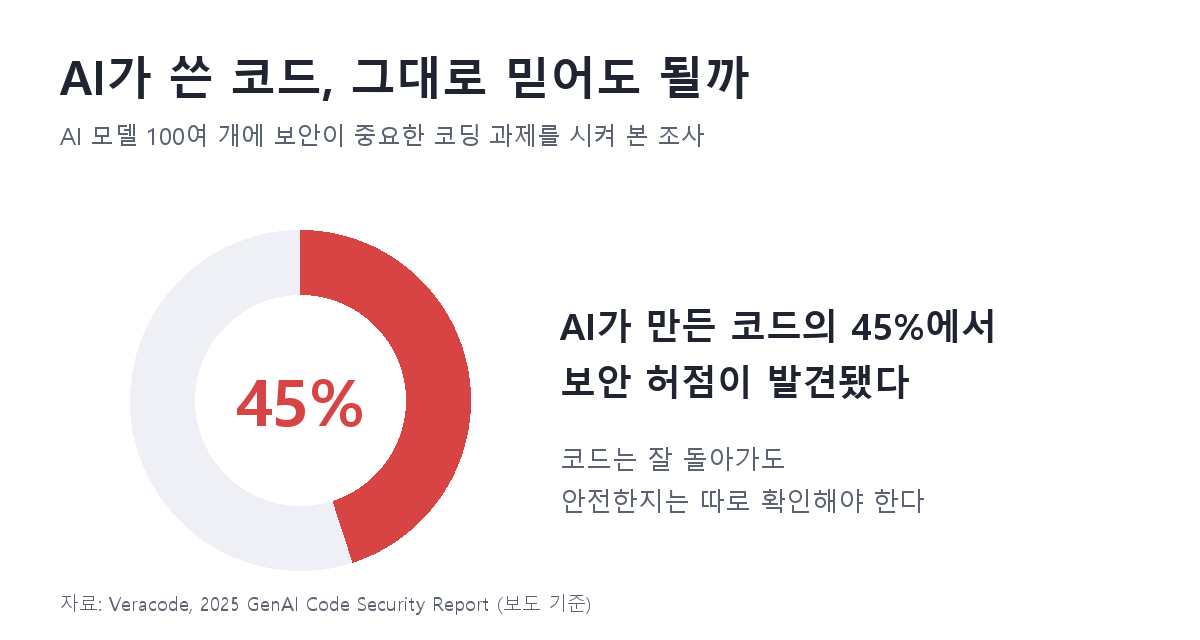
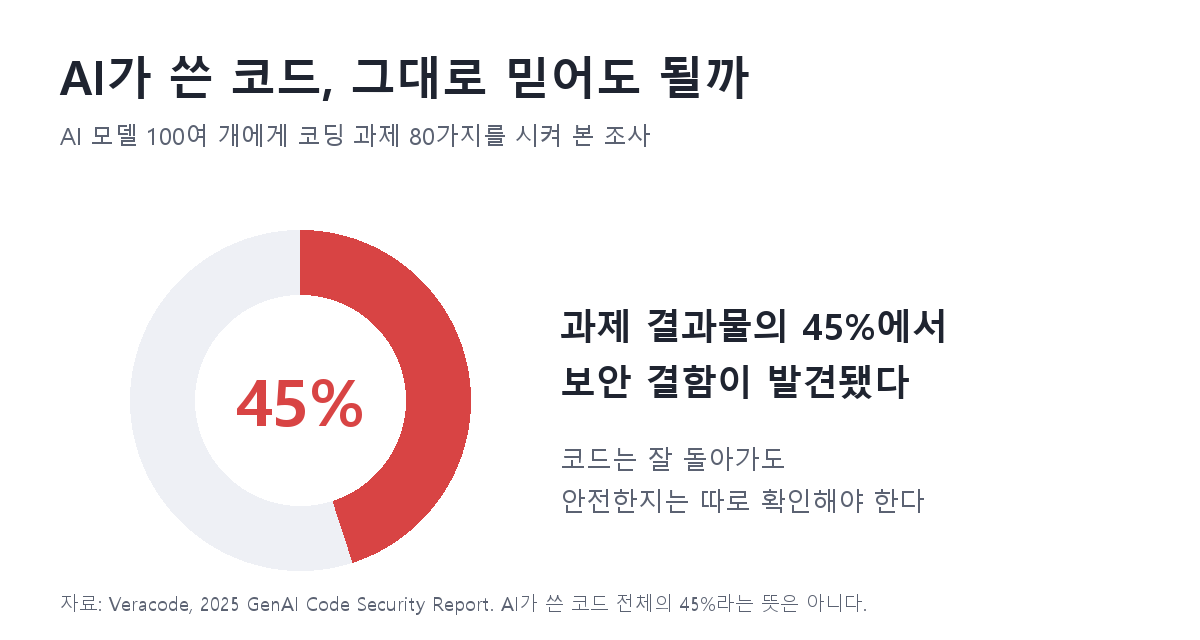
바이브 코딩 글: 외부 검토 반영, "어떻게보다 무엇을" 단락 추가
- 외부 검토 반영: 바이브 코딩의 처음 뜻과 넓어진 뜻 구분, Veracode 45%를 "과제 결과물의 45%"로 좁힘,
  경험 범위를 실제 해 본 작업으로 한정, "1년도 안 돼"를 "같은 해인 2025년 11월"로 수정
- 06·08 이미지 문구를 본문에 맞게 다시 만듦
- "참고한 자료" 항목은 넣었다가 사용자 요청으로 삭제, 출처는 발행 메모에만 둠
- 사용자 의견을 다듬어 "'어떻게'보다 '무엇을'이 중요해졌다" 단락과 09 비교 도식 추가
- AGENTS.md: 검토에서 배운 글쓰기 기준과 본문에 출처 목록을 넣지 않는 규칙 기록

diff --git a/문서/네이버-코딩가이드/20261115_바이브-코딩/index.html b/문서/네이버-코딩가이드/20261115_바이브-코딩/index.html
@@ -17,15 +17,26 @@
           06-보안-45퍼센트.png        AI 제작 차트
           07-잘-쓰는-법.png           AI 제작 체크리스트
           08-난이도별-바이브코딩.png   AI 제작 도식 (간단·중간·복잡별 AI 몫과 사람 몫)
+          09-어떻게보다-무엇을.png     AI 제작 비교 도식 (예전에 중요했던 것 → 이제 중요한 것)
 
 [발행 전에 확인할 부분]
 - 2026.11.15 검색 기준.
 - "바이브 코딩"이라는 말: 안드레이 카파시가 2025년 2월 2일 X(옛 트위터)에 처음 쓴 표현. 여러 보도로 확인(검색 요약).
 - 콜린스 사전 2025년 올해의 단어: 2025년 11월 6일 발표 보도 여러 건으로 확인(검색 요약).
-- 보안 45%: Veracode 2025 GenAI Code Security Report(AI 모델 100여 개, 보안 관련 코딩 과제 80개)를 인용한 CSA 연구 노트 요약으로 본 것.
+- 보안 45%: Veracode 2025 GenAI Code Security Report(AI 모델 100여 개, 코딩 과제 80개). "AI가 만든 코드의 45%"는
+  코드 전체의 45%로 오해될 수 있어, 외부 검토 의견에 따라 "과제 결과물의 45%에서 알려진 유형의 보안 결함"으로 좁혀 고쳤다(본문·06 이미지).
   보고서 원문은 열어 보지 않았다.
+- 2026.11.15 외부 검토 반영: 바이브 코딩의 처음 뜻(코드를 거의 보지 않고 맡김)과 요즘의 넓은 뜻을 구분해 설명,
+  "간단한 일은 충분했다"를 "제가 맡겨 본 단순한 작업에서는 충분했다"로 범위를 좁힘, "1년도 안 돼"를 "같은 해인 2025년 11월"로 바꿈,
+  글 끝에 참고한 자료 링크를 넣었다가 사용자 요청(논문이 아니다)으로 삭제했다. 출처는 이 발행 메모에만 둔다:
+  카파시 X 글 https://x.com/karpathy/status/1886192184808149383
+  콜린스 https://blog.collinsdictionary.com/language-lovers/collins-word-of-the-year-2025-ai-meets-authenticity-as-society-shifts/
+  베라코드 https://www.veracode.com/wp-content/uploads/2025_GenAI_Code_Security_Report_Final.pdf
+  Gizmodo https://gizmodo.com/even-the-inventor-of-vibe-coding-says-vibe-coding-cant-cut-it-2000672821
 - "직접 써 봤다" 부분은 이 저장소에서 실제로 한 작업(엑셀 합치기 코드 작성·실행 확인, 표·차트 이미지 제작,
   AI가 네이버 블로그에 하위 분류 기능이 있다고 잘못 답한 일, AI가 코드로 그린 만화 그림을 ChatGPT 그림으로 바꾼 일)을 바탕으로 썼다.
+- "'어떻게'보다 '무엇을'이 중요해졌다" 단락은 사용자 의견("어떻게 코딩하냐보다 무엇을 코딩하냐가 중요한 시대",
+  "누구나 코딩이 가능하지만 누구나 좋은 코딩이 가능한 것은 아니다")을 다듬어 추가했다. 카메라 비유와 공부 방향은 AI가 덧붙였다.
 - "모든 코딩이 바이브 코딩으로 바뀔까" 단락은 사용자 의견(간단한 것은 바이브 코딩만으로 되지만 복잡해지면 아직 어렵다)을 바탕으로 추가했다.
   카파시의 "throwaway weekend projects" 표현(2025.2.2 원래 글)과 "정말 신경 쓰는 코드에는 부족하다"는 이후 발언은
   여러 매체의 인용(검색 요약)으로 확인했다. 원문 X 글은 직접 열어 보지 않았다.
@@ -50,7 +61,9 @@
 
 <p>그가 말한 바이브 코딩은 코드를 한 줄씩 직접 쓰는 대신, AI에게 원하는 것을 말하고 결과를 보면서 '느낌(vibe)대로' 프로그램을 만들어 가는 방식이었습니다. 코드가 있다는 것조차 잊을 정도로 AI에게 맡긴다는 뜻이었다고 합니다.</p>
 
-<p>이 말은 1년도 안 돼 널리 퍼졌습니다. 영국의 콜린스 사전은 2025년 11월에 '바이브 코딩'을 그해의 단어로 뽑았습니다. 처음 등장한 뒤로 쓰임이 크게 늘었다는 것이 이유였다고 합니다.</p>
+<p>요즘은 뜻이 넓어져서, AI에게 말로 코드를 짜게 하는 방식 전반을 바이브 코딩이라고 부르는 경우가 많습니다. 다만 처음 뜻은 AI가 쓴 코드를 거의 들여다보지 않고 맡기는 쪽에 가까웠습니다. AI의 도움을 받되 코드를 직접 검토하고 고치는 개발과는 조금 다른 것입니다. 이 글에서는 넓은 뜻으로 쓰겠습니다.</p>
+
+<p>이 말은 빠르게 퍼졌습니다. 영국의 콜린스 사전은 같은 해인 2025년 11월에 '바이브 코딩'을 그해의 단어로 뽑았습니다. 처음 등장한 뒤로 쓰임이 크게 늘었다는 것이 이유였다고 합니다.</p>
 
 <p>&nbsp;</p>
 <hr style="border:none;border-top:1px solid #cfcfcf;margin:8px 0;">
@@ -105,9 +118,9 @@
 <p>&nbsp;</p>
 <h3 style="font-size:18px;margin:28px 0 8px;">보안은 따로 확인해야 한다</h3>
 
-<p>특히 보안 문제가 자주 지적됩니다. 보안 회사 베라코드(Veracode)가 2025년에 AI 모델 100여 개에게 보안이 중요한 코딩 과제를 시켜 본 조사에서, AI가 만든 코드의 45%에서 보안 허점이 나왔다고 합니다.</p>
+<p>특히 보안 문제가 자주 지적됩니다. 보안 회사 베라코드(Veracode)가 2025년에 낸 보고서에서는 AI 모델 100여 개에게 80가지 코딩 과제를 시켜 봤는데, 과제 결과물의 45%에서 이미 알려진 유형의 보안 결함이 발견됐다고 합니다. AI가 쓴 코드 전체의 45%가 위험하다는 뜻은 아니지만, 가볍게 넘길 비율은 아닙니다.</p>
 
-<p style="color:#e60000;font-weight:bold;">[[ 이미지: AI가 만든 코드의 보안 허점 45% (06-보안-45퍼센트.png) ]]</p>
+<p style="color:#e60000;font-weight:bold;">[[ 이미지: 과제 결과물의 45%에서 보안 결함 (06-보안-45퍼센트.png) ]]</p>
 
 <p>코드가 잘 돌아간다고 해서 안전한 것은 아니라는 뜻입니다. 엑셀 정리처럼 내 컴퓨터 안에서 끝나는 일은 부담이 적지만, 로그인이나 결제, 개인정보를 다루는 프로그램이라면 전문가의 확인이 꼭 필요해 보입니다.</p>
 
@@ -130,7 +143,7 @@
 
 <p>써 보면서 가장 궁금했던 것이 이 부분입니다. 앞으로는 코딩을 전부 말로 하게 될까요?</p>
 
-<p>제 결론은 "아직은 아니다"입니다. 엑셀 파일을 합치거나 그래프를 그리는 것처럼 간단한 일은 바이브 코딩만으로 충분했습니다. 원하는 것을 말하고, 결과를 확인하고, 한두 번 고쳐 달라고 하면 끝났습니다.</p>
+<p>제 결론은 "아직은 아니다"입니다. 제가 맡겨 본 엑셀 파일 합치기나 그래프 그리기 같은 단순한 작업에서는 바이브 코딩만으로 충분했습니다. 원하는 것을 말하고, 결과가 맞는지 확인하고, 한두 번 고쳐 달라고 하면 끝났습니다.</p>
 
 <p>그런데 일이 조금만 복잡해져도 사정이 달라졌습니다. 기능이 여러 개 얽히면, 하나를 고쳐 달라고 했을 때 다른 곳이 망가지는 일이 생깁니다. 어디가 문제인지 AI에게 다시 설명하다 보면, 결국 코드를 직접 들여다봐야 할 때가 많았습니다.</p>
 
@@ -151,14 +164,31 @@
 
 <p>&nbsp;</p>
 <hr style="border:none;border-top:1px solid #cfcfcf;margin:8px 0;">
+<h2 style="font-size:22px;margin:40px 0 12px;">'어떻게'보다 '무엇을'이 중요해졌다</h2>
+
+<p>AI 코딩 도구를 써 보면서 가장 크게 든 생각은 이것이었습니다. <b>이제는 어떻게 코딩하느냐보다 무엇을 코딩하느냐가 더 중요한 시대가 된 것 같다</b>는 것입니다.</p>
+
+<p>예전에는 코딩을 배운다고 하면 문법을 외우고, 언어마다 쓰는 법을 익히고, 오류가 나면 한 줄씩 찾아 고치는 일이 대부분이었습니다. 말하자면 '어떻게'를 배우는 시간이었습니다. 그런데 이 부분을 AI가 상당히 대신해 주면서, 사람에게 남는 일이 달라졌습니다.</p>
+
+<p style="color:#e60000;font-weight:bold;">[[ 이미지: 코딩에서 중요한 것이 바뀌었다 (09-어떻게보다-무엇을.png) ]]</p>
+
+<p>엑셀 파일 합치기만 해도 그렇습니다. 코드는 AI가 금방 써 주지만, 어떤 파일을 합칠지, 합친 뒤 어느 파일에서 온 데이터인지 표시할지, 결과를 어떤 모양으로 저장할지는 원하는 사람이 정해야 쓸모 있는 결과가 나옵니다. 무엇이 필요한지 분명하지 않으면, 코드는 잘 돌아가도 정작 쓸 데가 없는 결과가 나옵니다.</p>
+
+<p>그래서 <b>누구나 코딩을 할 수 있게 됐지만, 누구나 좋은 코딩을 할 수 있는 것은 아니라</b>는 생각도 들었습니다. 좋은 카메라가 있다고 누구나 좋은 사진을 찍는 것이 아닌 것과 비슷합니다. 같은 AI 도구를 써도 무엇을 만들지 정확히 아는 사람, 원하는 것을 잘 설명하는 사람, 결과가 맞는지 알아보는 사람이 훨씬 좋은 결과를 얻습니다.</p>
+
+<p>그렇다고 코딩 공부가 필요 없어진 것은 아니라고 생각합니다. 오히려 공부의 방향이 바뀐 것에 가깝습니다. 문법을 하나하나 외우는 것보다, 큰 문제를 작은 단계로 나누는 법, 프로그램이 어떻게 돌아가는지에 대한 기본 개념, 그리고 AI가 내놓은 결과를 의심하고 확인하는 습관이 더 중요해졌습니다.</p>
+
+<p>&nbsp;</p>
+<hr style="border:none;border-top:1px solid #cfcfcf;margin:8px 0;">
 <h2 style="font-size:22px;margin:40px 0 12px;">정리</h2>
 
 <ul style="padding-left:20px;">
   <li>바이브 코딩은 AI에게 말로 설명해서 코드를 짜게 하는 방식입니다.</li>
-  <li>2025년 2월에 처음 나온 말이고, 같은 해 콜린스 사전의 올해의 단어로 뽑혔습니다.</li>
-  <li>코드를 몰라도 원하는 것을 만들 수 있지만, AI가 틀릴 수 있고 보안 허점도 생길 수 있습니다.</li>
-  <li>간단한 일은 바이브 코딩만으로 충분하지만, 복잡한 프로그램은 아직 사람이 설계하고 확인해야 합니다.</li>
+  <li>2025년 2월에 처음 나온 말이고, 같은 해 콜린스 사전의 올해의 단어로 뽑혔습니다. 처음에는 코드를 거의 보지 않고 AI에게 맡기는 방식을 뜻했지만, 요즘은 더 넓게 쓰입니다.</li>
+  <li>코드를 몰라도 원하는 것을 만들 수 있지만, AI가 틀릴 수 있고 보안 결함도 생길 수 있습니다.</li>
+  <li>제가 해 본 단순한 작업에서는 바이브 코딩으로 충분했지만, 복잡한 프로그램은 아직 사람이 설계하고 확인해야 합니다.</li>
   <li>결국 무엇을 원하는지 정확히 말하고, 결과를 사람이 확인하는 것이 핵심입니다.</li>
+  <li>이제는 어떻게 코딩하느냐보다 무엇을 코딩하느냐가 중요해졌습니다. 누구나 코딩할 수 있지만, 누구나 좋은 코딩을 하는 것은 아닙니다.</li>
 </ul>
 
 <p>코딩을 몰라도 시작할 수 있다는 점은 분명히 큰 변화입니다. 다만 써 보니, AI가 코드를 대신 써 줄수록 결과를 알아보는 눈은 오히려 더 필요하다는 생각이 들었습니다. 모든 코딩이 바이브 코딩으로 바뀌는 날이 올지는 모르겠지만, 적어도 지금은 간단한 일부터 맡겨 보며 익숙해지는 것이 좋은 출발점인 것 같습니다.</p>

diff --git a/AGENTS.md b/AGENTS.md
@@ -110,7 +110,15 @@
 ## 진행 상황 (2026-11-15 기준)
 - 2026-11-15: `문서/네이버-코딩가이드/20261115_바이브-코딩/index.html` 작성("바이브 코딩이 뭐길래, AI에게 말로 코딩을 시켜 봤다", 카테고리 코딩 정보). 코딩 정보 분류에 글이 9편뿐이라 사용자가 고른 주제. 말의 유래(카파시 2025.2, 콜린스 2025 올해의 단어) → 예전 코딩과 비교 → 직접 써 봤다(이 저장소에서 한 실제 작업: 엑셀 합치기 코드 실행 확인, 표·차트 제작, AI가 네이버 하위 분류를 잘못 안내한 일, AI가 그린 만화를 바꾼 일) → 좋은 점·조심할 점 → 보안 45%(Veracode) → 잘 쓰는 법 → 정리.
   - 사용자 의견("간단한 것은 바이브 코딩만으로 되지만 복잡해지면 아직 어렵다")을 바탕으로 "모든 코딩이 바이브 코딩으로 바뀔까" 단락과 정리 문장을 추가했다. 카파시 본인의 "주말에 쓰고 버릴 프로젝트에는 괜찮다"는 표현을 근거로 함께 넣었다. 사용자가 의견을 주면 그 방향을 글의 결론으로 삼아 근거를 찾아 보강한다.
-  - 이미지 8장이 모두 `images/`에 있다: AI 제작 6장(02 비교, 04 대화 형식 그림, 05 장단점, 06 45% 차트, 07 체크리스트, 08 난이도별 도식), ChatGPT 제작 2장(01 타이틀 3D, 03 만화). 대기 중인 이미지 요청 없음. 남은 일은 사용자의 네이버 발행뿐이다.
+  - 2026-11-15 외부 검토를 받아 고쳤다: 용어의 처음 뜻과 넓어진 뜻 구분, 통계 범위를 조사 내용대로 좁힘(Veracode 45%는 "과제 결과물의 45%"), 경험담의 범위를 실제 해 본 일로 한정, 상대 시간 표현("1년도 안 돼")을 절대 날짜로. 글 끝에 "참고한 자료" 링크도 넣었지만 사용자가 "논문이 아니다"라며 삭제를 요청해 뺐다.
+  - **이후 글에도 적용할 기준(위 검토에서 배운 점)**:
+    - 용어를 설명할 때 처음 뜻과 요즘 쓰이는 뜻이 다르면 구분해서 쓴다.
+    - 통계는 조사 대상과 범위를 본문에 함께 적고, 실제보다 넓게 읽힐 표현(예: "AI 코드의 45%")을 피한다. 이미지 속 문구도 같이 맞춘다.
+    - 경험에서 나온 결론은 "제가 해 본 ~에서는"처럼 범위를 한정한다.
+    - "1년도 안 돼", "지난달" 같은 상대 시간 표현 대신 연도·날짜를 쓴다(발행 시점이 늦어질 수 있다).
+    - **본문에 "참고한 자료"·출처 목록을 넣지 않는다**(사용자 요청: 블로그는 논문이 아니다). 출처 링크는 발행 메모(HTML 주석)에만 적는다. 본문에서는 "~의 조사에 따르면"처럼 문장 안에서 누구의 자료인지만 밝힌다.
+  - 사용자 의견("어떻게보다 무엇을 코딩하냐가 중요", "누구나 코딩은 가능하지만 누구나 좋은 코딩이 가능한 것은 아니다")을 다듬어 "'어떻게'보다 '무엇을'이 중요해졌다" 단락(정리 바로 앞)과 정리 항목을 추가했다. 이 의견이 글의 마지막 메시지다.
+  - 이미지 9장이 모두 `images/`에 있다: AI 제작 7장(02 비교, 04 대화 형식 그림, 05 장단점, 06 45% 차트, 07 체크리스트, 08 난이도별 도식, 09 어떻게보다 무엇을), ChatGPT 제작 2장(01 타이틀 3D, 03 만화). 대기 중인 이미지 요청 없음. 남은 일은 사용자의 네이버 발행뿐이다.
   - **사용자 요청: 본문에 "블로그 글을 준비할 때 AI를 쓴다"고 쓰지 않는다.** "코딩할 때 AI 코딩 도구를 쓴다"로 쓴다(블로그 글쓰기는 코딩이 아니므로). 다른 글에서도 블로그 글을 AI로 만든다는 내용은 넣지 않는다.
   - 04 대화 그림은 실제 대화를 그대로 옮긴 것이 아니라 "맡긴 일을 대화 형식으로 다시 정리했다"고 그림과 본문에 밝혔다. 경험담 글에서 대화·화면을 재구성할 때는 이렇게 표시한다.
   - 처음에 남겼던 빈칸 1곳(가장 편했던 점)은 AI가 "코드를 처음부터 쓰지 않아도 되어 설명·확인에 집중할 수 있었다"로 채웠다. 줄어든 시간 같은 수치는 알 수 없어 쓰지 않았다.
